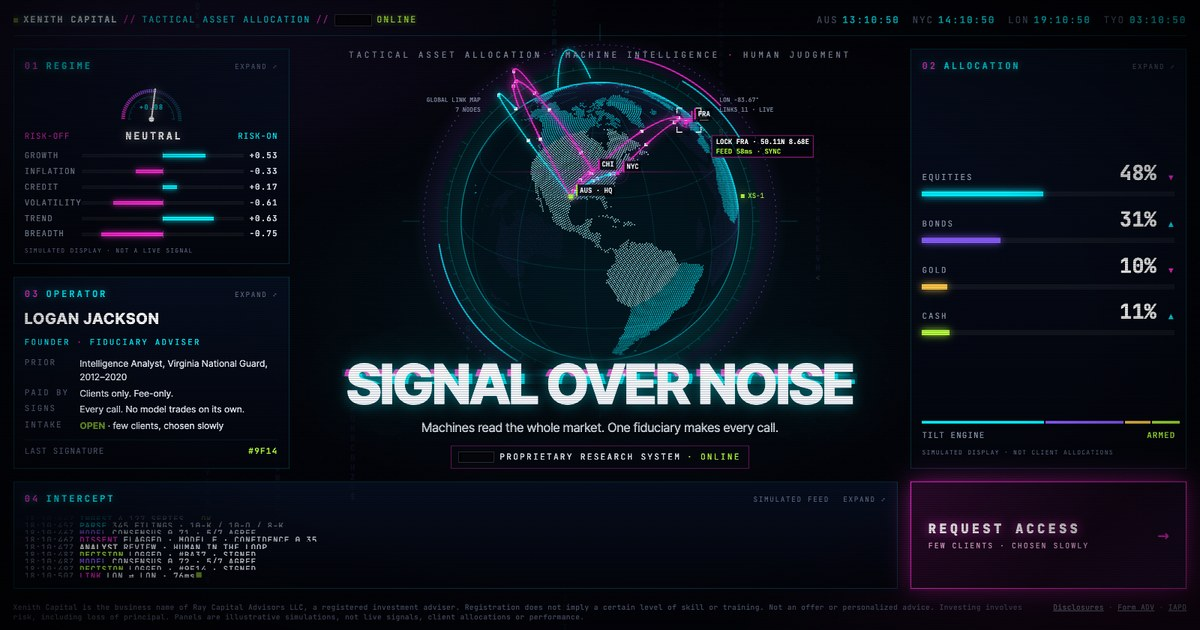
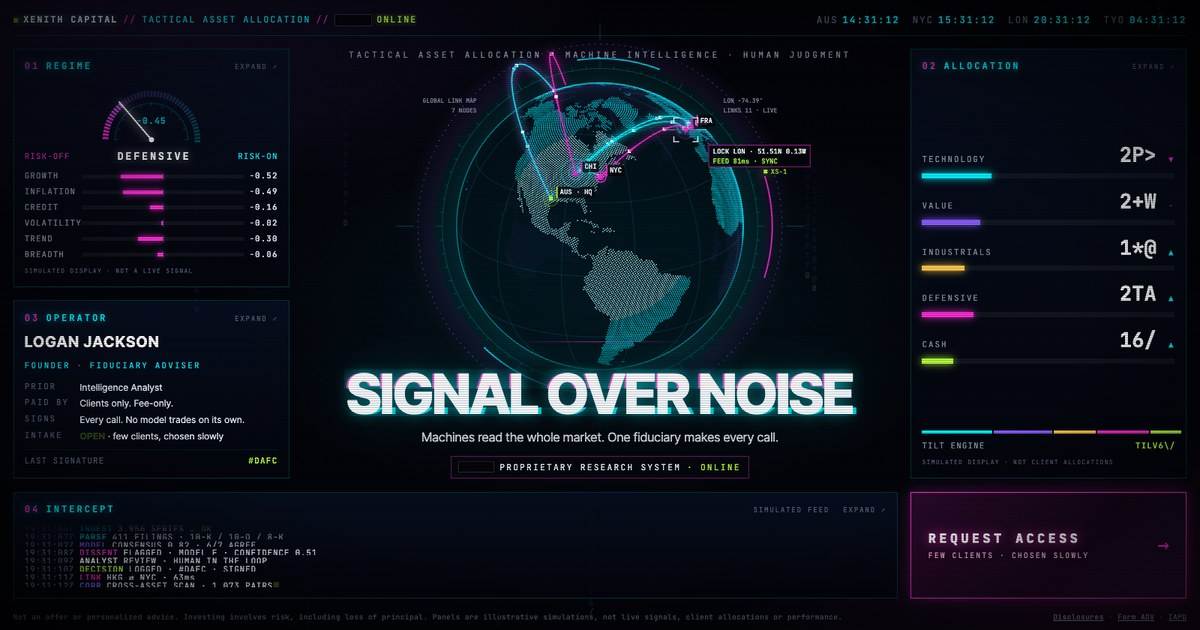
Hub-2: stock-sector allocation (technology/value/industrials/defensive/cash), center phone subline, operator = Intelligence Analyst, drop entity name from footer

diff --git a/index.html b/index.html
@@ -29,7 +29,7 @@
 <script type="application/ld+json">{"@context":"https://schema.org","@type":"FinancialService","name":"Xenith Capital","legalName":"Ray Capital Advisors LLC","url":"https://xenithcap.io/","logo":"https://xenithcap.io/assets/icon-512.png","image":"https://xenithcap.io/assets/og-hub.jpg","description":"Fee-only investment firm. Tactical asset allocation. A fiduciary adviser makes every decision.","foundingDate":"2021","founder":{"@type":"Person","name":"Logan Jackson"},"address":{"@type":"PostalAddress","addressLocality":"Austin","addressCountry":"US"},"sameAs":["https://adviserinfo.sec.gov/firm/summary/316844"]}</script>
 <script src="/assets/earth.js" defer></script>
 <script src="/assets/hub.js" defer></script>
-<!-- build: hub-1 -->
+<!-- build: hub-2 -->
 </head>
 <body>
 <a class="skip" href="#core">Skip to content</a>
@@ -87,12 +87,13 @@
   <header class="ph"><h2 id="h-alc"><i>02</i>ALLOCATION</h2><span class="ex">EXPAND ⤢</span></header>
   <div class="viz">
     <ul class="al" id="al" aria-hidden="true">
-      <li class="eq"><span>EQUITIES</span><b>--%</b><em>·</em><s><i></i></s></li>
-      <li class="bd"><span>BONDS</span><b>--%</b><em>·</em><s><i></i></s></li>
-      <li class="au"><span>GOLD</span><b>--%</b><em>·</em><s><i></i></s></li>
+      <li class="tk"><span>TECHNOLOGY</span><b>--%</b><em>·</em><s><i></i></s></li>
+      <li class="vl"><span>VALUE</span><b>--%</b><em>·</em><s><i></i></s></li>
+      <li class="in"><span>INDUSTRIALS</span><b>--%</b><em>·</em><s><i></i></s></li>
+      <li class="df"><span>DEFENSIVE</span><b>--%</b><em>·</em><s><i></i></s></li>
       <li class="cs"><span>CASH</span><b>--%</b><em>·</em><s><i></i></s></li>
     </ul>
-    <div class="stack" id="stack" aria-hidden="true"><i class="eq"></i><i class="bd"></i><i class="au"></i><i class="cs"></i></div>
+    <div class="stack" id="stack" aria-hidden="true"><i class="tk"></i><i class="vl"></i><i class="in"></i><i class="df"></i><i class="cs"></i></div>
     <p class="tilt"><span>TILT ENGINE</span><b id="tilt">ARMED</b></p>
     <p class="ill">SIMULATED DISPLAY · NOT CLIENT ALLOCATIONS</p>
   </div>
@@ -104,7 +105,7 @@
     <p class="nm">LOGAN JACKSON</p>
     <p class="rl">FOUNDER <span>·</span> FIDUCIARY ADVISER</p>
     <dl>
-      <dt>PRIOR</dt><dd>Intelligence Analyst, Virginia National Guard, 2012–2020</dd>
+      <dt>PRIOR</dt><dd>Intelligence Analyst</dd>
       <dt>PAID BY</dt><dd>Clients only. Fee-only.</dd>
       <dt>SIGNS</dt><dd>Every call. No model trades on its own.</dd>
       <dt>INTAKE</dt><dd><b class="blink">OPEN</b> · few clients, chosen slowly</dd>
@@ -123,7 +124,7 @@
 </div>
 
 <footer class="leg">
-  <p><span class="full">Xenith Capital is the business name of Ray Capital Advisors LLC, a registered investment adviser. Registration does not imply a certain level of skill or training. Not an offer or personalized advice. Investing involves risk, including loss of principal. Panels are illustrative simulations, not live signals, client allocations or performance.</span><span class="short">Ray Capital Advisors LLC, a registered investment adviser. Not an offer or advice. Displays are simulated.</span></p>
+  <p><span class="full">Not an offer or personalized advice. Investing involves risk, including loss of principal. Panels are illustrative simulations, not live signals, client allocations or performance.</span><span class="short">Not an offer or advice. Displays are simulated.</span></p>
   <p class="links"><a href="/disclosures.html">Disclosures</a> · <a href="https://reports.adviserinfo.sec.gov/reports/ADV/316844/PDF/316844.pdf" rel="noopener">Form ADV</a> · <a href="https://adviserinfo.sec.gov/firm/summary/316844" rel="noopener">IAPD</a></p>
 </footer>
 
@@ -149,7 +150,7 @@
   <header class="rh"><p class="rk">READOUT // 02</p><h2 id="ro-alloc-h" data-d>TACTICAL ASSET ALLOCATION</h2><button type="button" class="x" aria-label="Close">CLOSE <kbd>ESC</kbd> ✕</button></header>
   <div class="rb">
     <p class="lead" data-d>Tactical means we're allowed to move. Disciplined means every move has a reason first.</p>
-    <p>Each model portfolio holds a strategic core and tilts across equities, bonds, gold and cash as the evidence changes. We don't hold a static mix and hope; we shift when the regime and the evidence agree, and we document why.</p>
+    <p>Each model portfolio holds a strategic core and tilts across sectors of the stock market (technology, value, industrials, defensives) as the evidence changes, and raises cash when the posture turns risk-off. We don't hold a static mix and hope; we shift when the regime and the evidence agree, and we document why.</p>
     <ul class="pts">
       <li><b>CORE</b>The long-term mix your plan is built on</li>
       <li><b>TILT</b>Measured shifts when the posture and the evidence line up</li>
@@ -177,7 +178,7 @@
   <header class="rh"><p class="rk">READOUT // 03</p><h2 id="ro-op-h" data-d>OPERATOR: ONE ADVISER ANSWERS FOR EVERY CALL</h2><button type="button" class="x" aria-label="Close">CLOSE <kbd>ESC</kbd> ✕</button></header>
   <div class="rb">
     <p class="lead" data-d>Logan Jackson, founder.</p>
-    <p>Eight years as an Intelligence Analyst in the Virginia National Guard (2012–2020): turning noisy, incomplete information into decisions someone has to stand behind. Formerly a financial advisor and a banker.</p>
+    <p>Formerly an Intelligence Analyst: turning noisy, incomplete information into decisions someone has to stand behind. Then a financial advisor and a banker.</p>
     <p>Xenith is fee-only and fiduciary. We are paid by our clients and no one else. We take few clients, and we choose them slowly.</p>
     <p><a class="cta in" href="mailto:inquiry@xenithcap.io?subject=Access%20request"><span class="k">REQUEST ACCESS</span><i class="arr">→</i></a></p>
   </div>

diff --git a/assets/hub.css b/assets/hub.css
@@ -131,13 +131,14 @@ html.live .hub.tear{animation:tear .2s steps(3) 1}
 .al em.up{color:var(--cy)}.al em.dn{color:var(--pk)}
 .al s{grid-column:1/-1;height:7px}
 .al s i{position:absolute;left:0;top:0;bottom:0;width:0;transition:width 1.1s cubic-bezier(.2,.8,.2,1)}
-.al .eq i{background:var(--cy);box-shadow:0 0 10px var(--cy)}
-.al .bd i{background:var(--vi);box-shadow:0 0 10px var(--vi)}
-.al .au i{background:var(--au);box-shadow:0 0 10px var(--au)}
+.al .tk i{background:var(--cy);box-shadow:0 0 10px var(--cy)}
+.al .vl i{background:var(--vi);box-shadow:0 0 10px var(--vi)}
+.al .in i{background:var(--au);box-shadow:0 0 10px var(--au)}
+.al .df i{background:var(--pk);box-shadow:0 0 10px var(--pk)}
 .al .cs i{background:var(--ac);box-shadow:0 0 10px var(--ac)}
 .stack{display:flex;height:4px;gap:2px;flex:none}
-.stack i{display:block;flex:0 0 25%;transition:flex-basis 1.1s cubic-bezier(.2,.8,.2,1)}
-.stack .eq{background:var(--cy)}.stack .bd{background:var(--vi)}.stack .au{background:var(--au)}.stack .cs{background:var(--ac)}
+.stack i{display:block;flex:0 0 20%;transition:flex-basis 1.1s cubic-bezier(.2,.8,.2,1)}
+.stack .tk{background:var(--cy)}.stack .vl{background:var(--vi)}.stack .in{background:var(--au)}.stack .df{background:var(--pk)}.stack .cs{background:var(--ac)}
 .tilt{display:flex;justify-content:space-between;flex:none;color:var(--dim)}
 .tilt b{font-weight:600;color:var(--ac)}
 
@@ -223,7 +224,7 @@ html.live .x{display:block;position:absolute;right:0;top:0;cursor:pointer;backgr
   .clocks{justify-content:space-between;gap:.5em}
   .kick{display:none}
   .glitch{font-size:clamp(1.9rem,9.6vw,3.2rem)}
-  .sub{font-size:.86rem;max-width:22em}
+  .sub{font-size:.86rem;max-width:22em;margin-left:auto;margin-right:auto}
   html.live .tabs{grid-area:tabs;display:grid;grid-template-columns:repeat(4,1fr);gap:.3rem}
   .tab{cursor:pointer;background:#05070fcc;border:1px solid var(--line);color:var(--dim);font-size:.58rem;letter-spacing:.16em;padding:.6em .2em}
   .tab.act{color:#05010a;background:var(--cy);border-color:var(--cy);font-weight:700;box-shadow:0 0 16px #00f0ff66}
@@ -234,8 +235,10 @@ html.live .x{display:block;position:absolute;right:0;top:0;cursor:pointer;backgr
   .reg .post{flex:0 0 100%;order:3}
   .reg .sig{flex:1;gap:.22rem}
   .reg .sig li{grid-template-columns:5.6em 1fr 3.2em;gap:.4em}
-  .al{gap:.4rem}
-  .al b{font-size:1.15rem}
+  .al{gap:.45rem;justify-content:flex-start}
+  .al li{grid-template-columns:7.4em minmax(0,1fr) 2.6em 1em;align-items:center}
+  .al s{grid-column:2;grid-row:1;height:5px}
+  .al b{font-size:.95rem;text-align:right}
   .dock{grid-area:dock}
   .cta{padding:.8rem 1rem}
   .leg{flex-direction:column;gap:.15rem;font-size:.52rem}
@@ -246,6 +249,8 @@ html.live .x{display:block;position:absolute;right:0;top:0;cursor:pointer;backgr
 @media (max-width: 900px) and (max-height: 700px){
   html.live .hub{grid-template-rows:auto minmax(0,1fr) auto minmax(8rem,30dvh) auto auto}
   .sub{display:none}
+  .stack,.tilt{display:none}
+  .al{gap:.32rem}
 }
 @media (min-width: 901px) and (max-height: 760px){
   .kick{display:none}

diff --git a/assets/hub.js b/assets/hub.js
@@ -121,7 +121,7 @@
   var stack = $$('#stack i'), tiltEl = $('#tilt');
   function stepAlloc() {
     var v = regT;
-    var tg = [48 + 20 * v, 30 - 12 * v, 11 - 3 * v, 11 - 5 * v].map(function (x) { return Math.max(2, x + rnd(-2.2, 2.2)); });
+    var tg = [34 + 12 * v, 22 - 3 * v, 18 + 3 * v, 16 - 7 * v, 10 - 5 * v].map(function (x) { return Math.max(2, x + rnd(-2, 2)); });
     var s = tg.reduce(function (a, b) { return a + b; }, 0), moved = false;
     tg = tg.map(function (x) { return Math.round(x / s * 100); });
     tg[0] += 100 - tg.reduce(function (a, b) { return a + b; }, 0);
